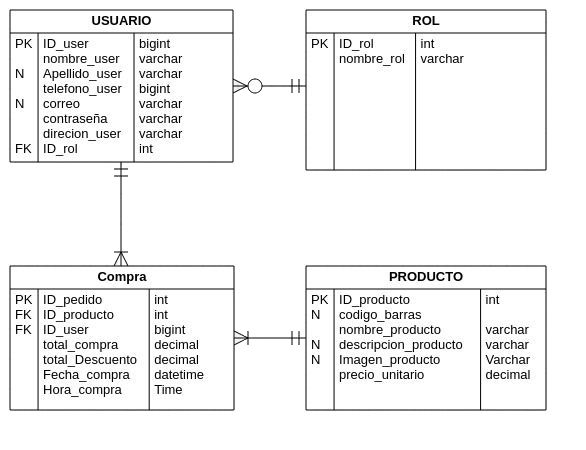
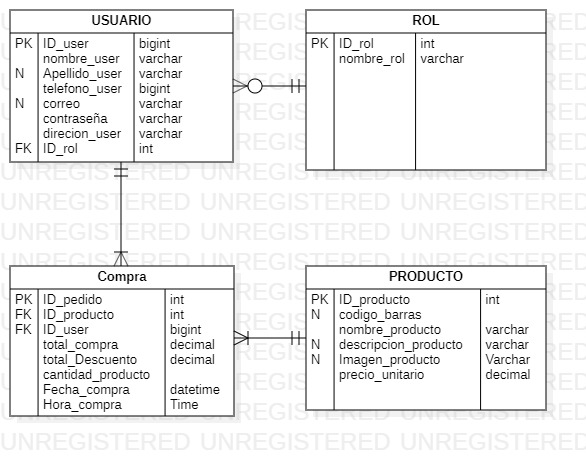
se termino la cracion de las clases java del la base de datos en el paquete models.entity

diff --git a/WebMiniMercadoLosPacos/src/main/java/com/minimercadolospacos/webminimercadolospacos/models/entity/Compra.java b/WebMiniMercadoLosPacos/src/main/java/com/minimercadolospacos/webminimercadolospacos/models/entity/Compra.java
@@ -1,10 +1,15 @@
 package com.minimercadolospacos.webminimercadolospacos.models.entity;
 
+import java.time.LocalDate;
+import java.time.LocalTime;
 import javax.persistence.Column;
 import javax.persistence.Entity;
+import javax.persistence.FetchType;
 import javax.persistence.GeneratedValue;
 import javax.persistence.GenerationType;
 import javax.persistence.Id;
+import javax.persistence.JoinColumn;
+import javax.persistence.ManyToOne;
 import javax.persistence.Table;
 
 
@@ -17,10 +22,12 @@ public class Compra {
     @GeneratedValue(strategy = GenerationType.IDENTITY)
     private int idPedido;
     
-    @Column(name="ID_producto")
+    @ManyToOne(fetch = FetchType.EAGER)
+    @JoinColumn(name="ID_producto")
     private int idProducto;
         
-    @Column(name="ID_user")
+    @ManyToOne(fetch = FetchType.EAGER)
+    @JoinColumn(name="ID_user")
     private long idUser;
                 
     @Column(name="total_compra")
@@ -33,10 +40,126 @@ public class Compra {
     private long cantidadProductos;
     
     @Column(name="fecha_compra")
-    private  java.sql.Date  fechaCompra;
+    private  LocalDate  fechaCompra;
     
       @Column(name="hora_compra")
-    private java.sql.Time horaCompra;
+    private LocalTime horaCompra;
       
-      /*java.sql.Timestamp – Fecha y hora*/
+      /*
+      java.sql.Date -Fecha
+      java.sql.Time - Hora
+      java.sql.Timestamp – Fecha y hora
+      LocalDateTime - Fecha y Hora*/
+
+    /**
+     * @return the idPedido
+     */
+    public int getIdPedido() {
+        return idPedido;
+    }
+
+    /**
+     * @param idPedido the idPedido to set
+     */
+    public void setIdPedido(int idPedido) {
+        this.idPedido = idPedido;
+    }
+
+    /**
+     * @return the idProducto
+     */
+    public int getIdProducto() {
+        return idProducto;
+    }
+
+    /**
+     * @param idProducto the idProducto to set
+     */
+    public void setIdProducto(int idProducto) {
+        this.idProducto = idProducto;
+    }
+
+    /**
+     * @return the idUser
+     */
+    public long getIdUser() {
+        return idUser;
+    }
+
+    /**
+     * @param idUser the idUser to set
+     */
+    public void setIdUser(long idUser) {
+        this.idUser = idUser;
+    }
+
+    /**
+     * @return the totalCompra
+     */
+    public long getTotalCompra() {
+        return totalCompra;
+    }
+
+    /**
+     * @param totalCompra the totalCompra to set
+     */
+    public void setTotalCompra(long totalCompra) {
+        this.totalCompra = totalCompra;
+    }
+
+    /**
+     * @return the totalDescuento
+     */
+    public long getTotalDescuento() {
+        return totalDescuento;
+    }
+
+    /**
+     * @param totalDescuento the totalDescuento to set
+     */
+    public void setTotalDescuento(long totalDescuento) {
+        this.totalDescuento = totalDescuento;
+    }
+
+    /**
+     * @return the cantidadProductos
+     */
+    public long getCantidadProductos() {
+        return cantidadProductos;
+    }
+
+    /**
+     * @param cantidadProductos the cantidadProductos to set
+     */
+    public void setCantidadProductos(long cantidadProductos) {
+        this.cantidadProductos = cantidadProductos;
+    }
+
+    /**
+     * @return the fechaCompra
+     */
+    public LocalDate getFechaCompra() {
+        return fechaCompra;
+    }
+
+    /**
+     * @param fechaCompra the fechaCompra to set
+     */
+    public void setFechaCompra(LocalDate fechaCompra) {
+        this.fechaCompra = fechaCompra;
+    }
+
+    /**
+     * @return the horaCompra
+     */
+    public LocalTime getHoraCompra() {
+        return horaCompra;
+    }
+
+    /**
+     * @param horaCompra the horaCompra to set
+     */
+    public void setHoraCompra(LocalTime horaCompra) {
+        this.horaCompra = horaCompra;
+    }
 }

diff --git a/WebMiniMercadoLosPacos/src/main/java/com/minimercadolospacos/webminimercadolospacos/models/entity/Producto.java b/WebMiniMercadoLosPacos/src/main/java/com/minimercadolospacos/webminimercadolospacos/models/entity/Producto.java
@@ -8,17 +8,15 @@ import javax.persistence.Table;
 
 
 @Entity
-@Table(name = "PRODUCTO")
+@Table(name = "Producto")
 public class Producto {
         
     @Id
     @Column(name="ID_producto")
     private int idProducto;
-    
-      
-    @Column(name="codi_barras")
-    private long codiBarras;
-        
+       
+    @Column(name="codigo_barras")
+    private long codigoBarras;   
          
     @Column(name="nombre_producto")
     private String nombreProducto;
@@ -50,17 +48,17 @@ public class Producto {
     }
 
     /**
-     * @return the codiBarras
+     * @return the codigoBarras
      */
-    public long getCodiBarras() {
-        return codiBarras;
+    public long getCodigoBarras() {
+        return codigoBarras;
     }
 
     /**
-     * @param codiBarras the codiBarras to set
+     * @param codigoBarras the codigoBarras to set
      */
-    public void setCodiBarras(long codiBarras) {
-        this.codiBarras = codiBarras;
+    public void setCodigoBarras(long codigoBarras) {
+        this.codigoBarras = codigoBarras;
     }
 
     /**
@@ -132,5 +130,6 @@ public class Producto {
     public void setCantidadProducto(int cantidadProducto) {
         this.cantidadProducto = cantidadProducto;
     }
-                
+    
+    
 }

diff --git a/WebMiniMercadoLosPacos/src/main/java/com/minimercadolospacos/webminimercadolospacos/models/entity/Usuario.java b/WebMiniMercadoLosPacos/src/main/java/com/minimercadolospacos/webminimercadolospacos/models/entity/Usuario.java
@@ -1,7 +1,10 @@
 package com.minimercadolospacos.webminimercadolospacos.models.entity;
 import javax.persistence.Column;
 import javax.persistence.Entity;
+import javax.persistence.FetchType;
 import javax.persistence.Id;
+import javax.persistence.JoinColumn;
+import javax.persistence.ManyToOne;
 import javax.persistence.Table;
 
 
@@ -32,8 +35,9 @@ public class Usuario {
     
     @Column(name="direcion_user")
     private String direcionUser;
-                
-    @Column(name="ID_rol")
+         
+    @ManyToOne(fetch = FetchType.EAGER)
+    @JoinColumn(name="ID_rol")
     private int idRol;
 
     /**

diff --git a/WebMiniMercadoLosPacos/src/main/java/com/minimercadolospacos/webminimercadolospacos/models/entity/Rol.java b/WebMiniMercadoLosPacos/src/main/java/com/minimercadolospacos/webminimercadolospacos/models/entity/Rol.java
@@ -7,7 +7,7 @@ import javax.persistence.Id;
 import javax.persistence.Table;
 
 @Entity
-@Table(name = "ROL")
+@Table(name = "Rol")
 public class Rol {
   @Id
   @Column(name = "ID_rol")
